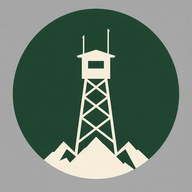
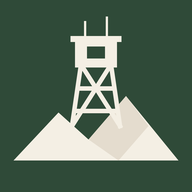
Sit the Lookout tower on pine, not a cream JPEG plate
Header and footer now use the live tower mark plus type, so they pick up the page color. App icons are full-bleed pine to match.

diff --git a/src/components/brand/logo.tsx b/src/components/brand/logo.tsx
@@ -1,6 +1,17 @@
 import { Link } from "@tanstack/react-router";
 import { cn } from "@/lib/utils";
 
+function Tower({ className }: { className?: string }) {
+  return (
+    <img
+      src="/favicon.svg"
+      alt=""
+      className={cn("size-9 shrink-0 rounded-full", className)}
+      aria-hidden="true"
+    />
+  );
+}
+
 /** Official tower icon — USFS lookout on pine. */
 export function LookoutIcon({
   className,
@@ -8,14 +19,7 @@ export function LookoutIcon({
   className?: string;
   onDark?: boolean;
 }) {
-  return (
-    <img
-      src="/favicon.svg"
-      alt=""
-      className={cn("size-7 shrink-0", className)}
-      aria-hidden="true"
-    />
-  );
+  return <Tower className={cn("size-7", className)} />;
 }
 
 /** Official circular tower mark. */
@@ -25,41 +29,26 @@ export function LookoutMark({
   className?: string;
   onDark?: boolean;
 }) {
-  return (
-    <img
-      src="/favicon.svg"
-      alt=""
-      className={cn("size-9 shrink-0", className)}
-      aria-hidden="true"
-    />
-  );
+  return <Tower className={className} />;
 }
 
-/** Official header lockup. Footer uses the tower + cream type on pine. */
+/** Tower + LOOKOUT. No JPEG plate — sits on whatever color the chrome is. */
 export function Logo({ className, onDark = false }: { className?: string; onDark?: boolean }) {
   return (
     <Link
       to="/"
-      className={cn("flex items-center text-foreground", onDark && "text-primary-foreground", className)}
+      className={cn("flex items-center gap-2.5 text-foreground", onDark && "text-primary-foreground", className)}
       aria-label="Lookout home"
     >
-      {onDark ? (
-        <span className="flex items-center gap-2.5">
-          <img src="/favicon.svg" alt="" className="size-10 shrink-0" />
-          <span className="flex flex-col leading-tight">
-            <span className="font-display text-[1.35rem] font-medium tracking-[0.12em]">LOOKOUT</span>
-            <span className="text-[0.62rem] font-medium tracking-[0.14em] uppercase text-primary-foreground/70">
-              A local car. At the trailhead.
-            </span>
+      <Tower className="size-9 md:size-10" />
+      <span className="flex min-w-0 flex-col leading-none">
+        <span className="font-display text-[1.35rem] font-medium tracking-[0.12em]">LOOKOUT</span>
+        {onDark ? (
+          <span className="mt-1 text-[0.62rem] font-medium tracking-[0.14em] uppercase text-primary-foreground/70">
+            A local car. At the trailhead.
           </span>
-        </span>
-      ) : (
-        <img
-          src="/brand/header-lockup.jpg"
-          alt="Lookout — A local car. At the trailhead."
-          className="h-10 w-auto max-w-[210px] object-contain md:h-12 md:max-w-[260px]"
-        />
-      )}
+        ) : null}
+      </span>
     </Link>
   );
 }
